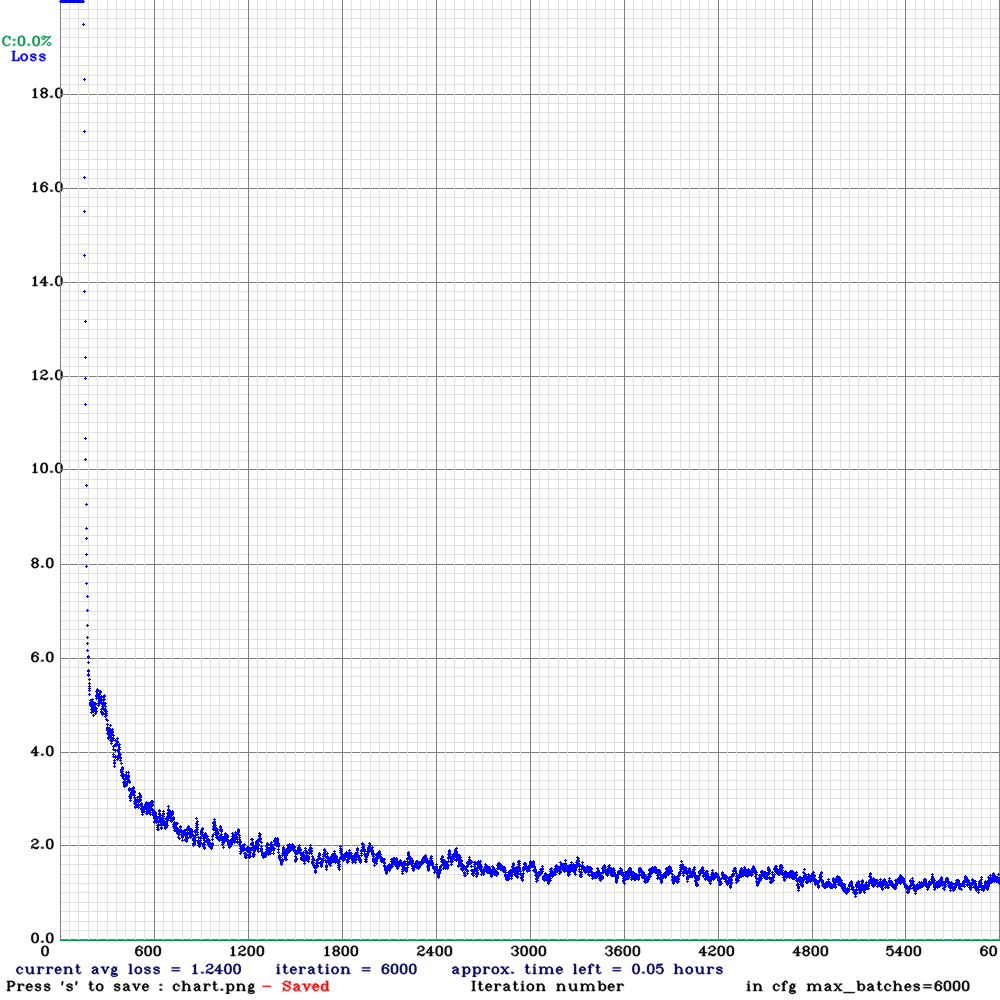
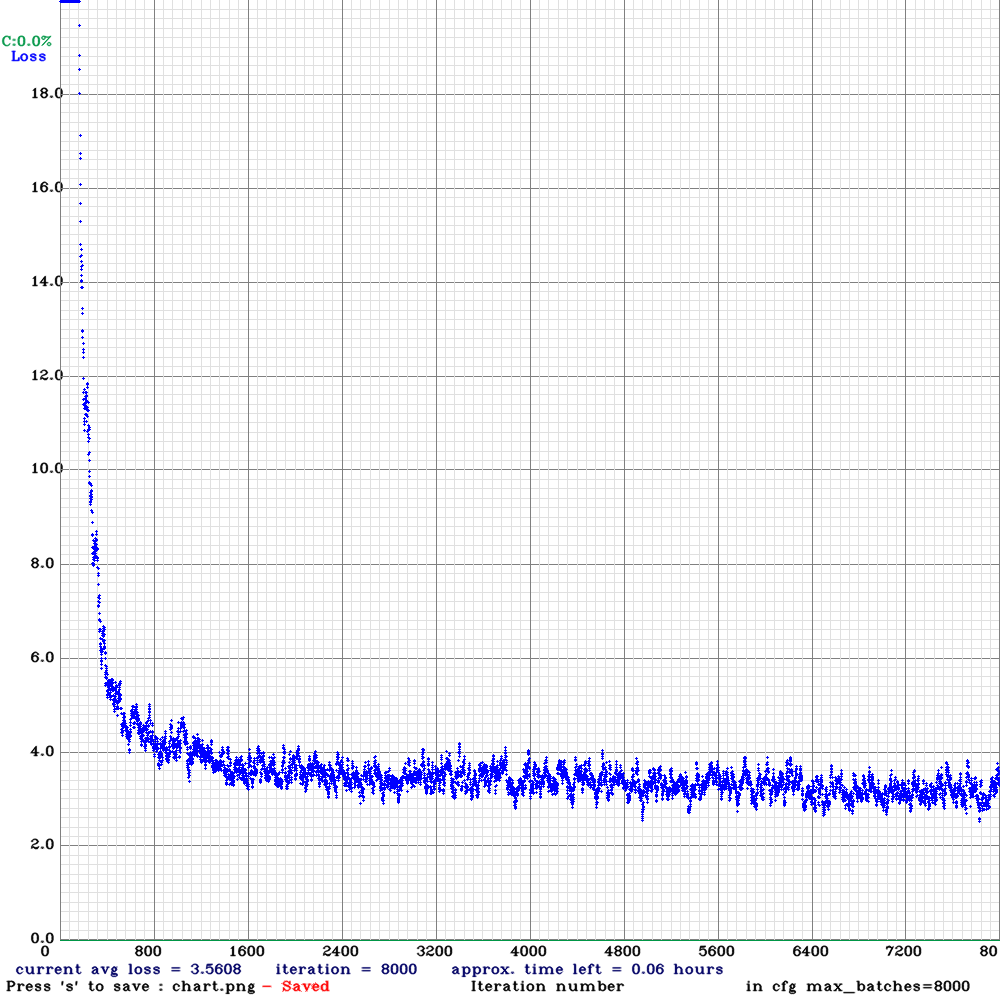
update

diff --git a/Convert_XML_To_YOLO.py b/Convert_XML_To_YOLO.py
@@ -63,7 +63,7 @@ def run_convert(all_classes, train_img, train_annotation, yolo_path, write_train
     with open(write_val_txt, 'a') as f:
         f.write('\n'.join(datasets[len_datasets:]))
 
-all_classes = {'cell phone': 0, 'laptop': 1, 'tv': 2}
+all_classes = {'person': 0, 'cell phone': 1, 'laptop': 2, 'tv': 3}
 train_img = "../datasets/coco_2017/images"
 train_annotation = "../datasets/coco_2017/annotations"
 yolo_path = "YOLO/data/"

diff --git a/Convert_COCO_To_VOC.py b/Convert_COCO_To_VOC.py
@@ -5,7 +5,7 @@ import os
 # http://cocodataset.org/#format-data
 
 # target_class = ["car", "dog"] #[] --> all
-target_class = ["tv", "laptop", "cell phone"]
+target_class = ["person", "cell phone", "laptop", "tv"]
 coco_annotations_path = "../datasets/annotations_trainval2017/annotations/instances_train2017.json"
 coco_images_path = "../datasets/train2017/"
 xml_file = "xml_file.txt"
